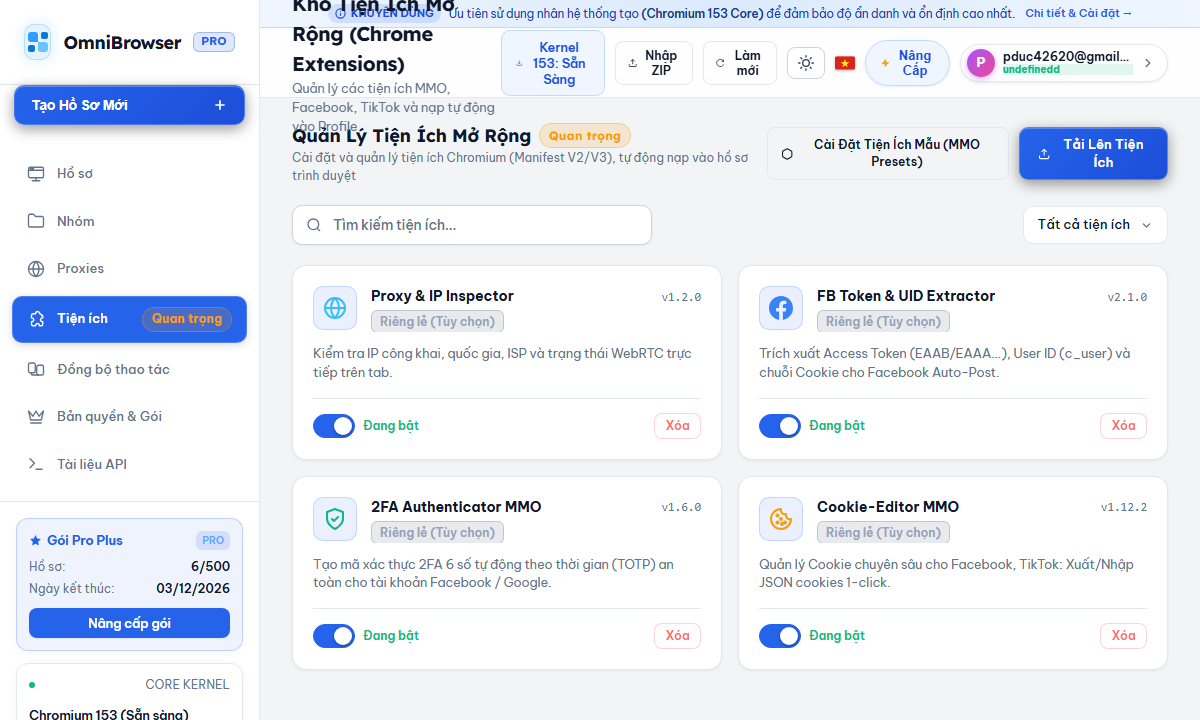
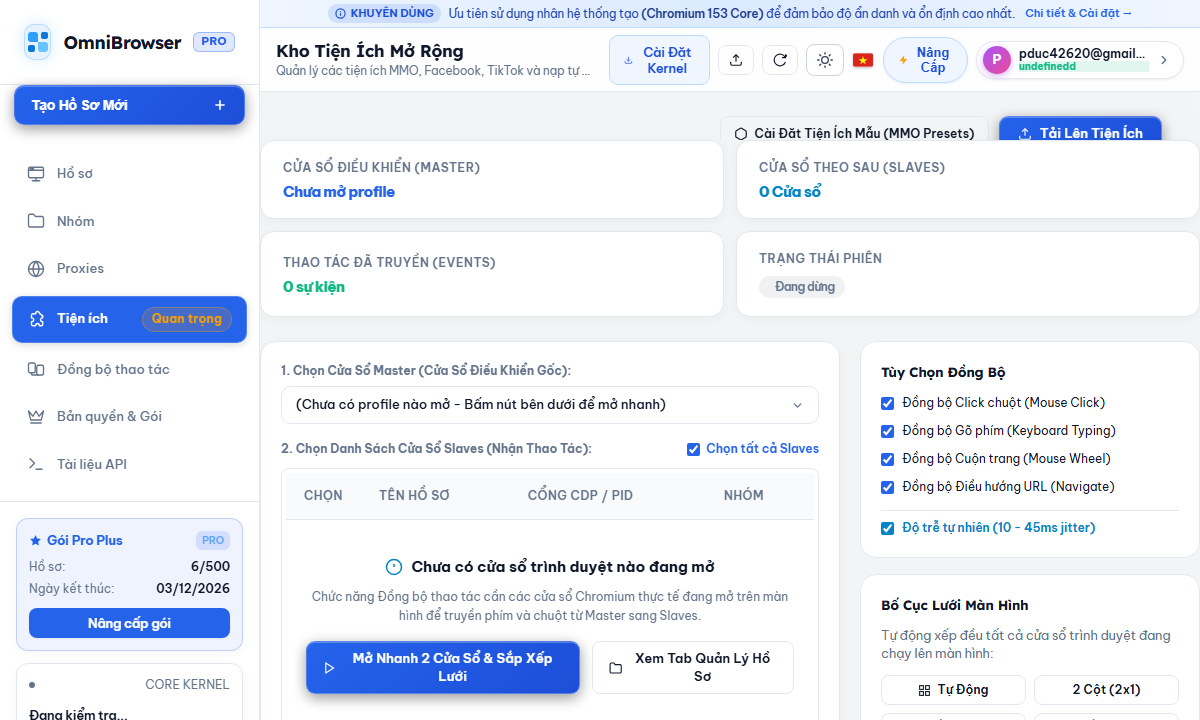
fix(responsive): eliminate duplicate headers and implement comprehensive responsive typography layout

diff --git a/public/index.html b/public/index.html
@@ -1069,15 +1069,7 @@
 
         <!-- View: Extensions Management (PolyLogin Style) -->
         <div id="view-extensions" class="view-section" style="display: none;">
-          <div style="display:flex; justify-content:space-between; align-items:center; margin-bottom: 20px;">
-            <div>
-              <h3 style="font-size: 18px; font-weight: 700; display:flex; align-items:center; gap:8px;">
-                <span>Quản Lý Tiện Ích Mở Rộng</span>
-                <span class="badge-important">Quan trọng</span>
-              </h3>
-              <p style="font-size: 12px; color: var(--text-muted);">Cài đặt và quản lý tiện ích Chromium (Manifest V2/V3), tự động nạp vào hồ sơ trình duyệt</p>
-            </div>
-            <div style="display:flex; gap:10px;">
+          <div style="display:flex; justify-content:flex-end; gap:10px; margin-bottom: 16px; flex-wrap: wrap;">
               <button class="uiv-btn uiv-btn-secondary" id="btn-install-presets" title="Cài đặt nhanh 4 tiện ích MMO: Cookie-Editor, 2FA Authenticator, FB Helper, Proxy Inspector">
                 <svg width="14" height="14" viewBox="0 0 24 24" fill="none" stroke="currentColor" stroke-width="2"><path d="M21 16V8a2 2 0 0 0-1-1.73l-7-4a2 2 0 0 0-2 0l-7 4A2 2 0 0 0 3 8v8a2 2 0 0 0 1 1.73l7 4a2 2 0 0 0 2 0l7-4A2 2 0 0 0 21 16z"/></svg>
                 <span>Cài Đặt Tiện Ích Mẫu (MMO Presets)</span>
@@ -1122,12 +1114,7 @@
 
         <!-- View 5: Multi-Window Synchronizer -->
         <div id="view-sync" class="view-section" style="display: none;">
-          <div style="display:flex; justify-content:space-between; align-items:center; margin-bottom: 20px;">
-            <div>
-              <h2 style="font-size: 18px; font-weight: 700;">Đồng Bộ Thao Tác Chuột & Phím (Action Synchronizer)</h2>
-              <p style="font-size: 12px; color: var(--text-muted);">Điều khiển 1 cửa sổ Master - tự động đồng bộ thời gian thực sang hàng chục cửa sổ Slave qua CDP</p>
-            </div>
-            <div style="display:flex; gap:10px;">
+          <div style="display:flex; justify-content:flex-end; gap:10px; margin-bottom: 20px; flex-wrap: wrap;">
               <button class="uiv-btn uiv-btn-secondary" onclick="quickStartTwoProfiles()" title="Mở nhanh 2 profile, chia đôi màn hình và tự động kích hoạt đồng bộ">
                 <svg width="14" height="14" viewBox="0 0 24 24" fill="none" stroke="currentColor" stroke-width="2"><polygon points="13 2 3 14 12 14 11 22 21 10 12 10 13 2"/></svg>
                 <span>Mở Nhanh 2 Cửa Sổ & Đồng Bộ</span>

diff --git a/public/style.css b/public/style.css
@@ -326,22 +326,35 @@ body::after {
 }
 
 .topbar {
-  height: 70px;
-  padding: 0 32px;
+  min-height: 64px;
+  height: auto;
+  padding: 12px 28px;
   display: flex;
   align-items: center;
   justify-content: space-between;
+  gap: 16px;
   border-bottom: 1px solid var(--border-subtle);
-  background: rgba(8, 13, 25, 0.7);
+  background: var(--bg-card, #ffffff);
   backdrop-filter: blur(12px);
   position: relative !important;
   z-index: 1000 !important;
+  box-sizing: border-box;
 }
 
+.topbar-title {
+  flex: 1 1 auto;
+  min-width: 200px;
+  max-width: calc(100% - 480px);
+}
 .topbar-title h1 {
-  font-size: 20px;
+  font-size: clamp(16px, 1.6vw, 20px);
   font-weight: 700;
-  letter-spacing: -0.4px;
+  letter-spacing: -0.3px;
+  margin: 0;
+  white-space: nowrap;
+  overflow: hidden;
+  text-overflow: ellipsis;
+  line-height: 1.3;
 }
 
 .topbar-title p {
@@ -7919,4 +7932,85 @@ select:focus {
 @keyframes poly-progress-fill {
   0% { width: 0%; }
   100% { width: 100%; }
+}
+
+
+/* ==========================================================================
+   COMPREHENSIVE RESPONSIVE DESIGN & ADAPTIVE LAYOUT
+   ========================================================================== */
+@media (max-width: 1440px) {
+  .topbar {
+    padding: 10px 20px;
+    gap: 12px;
+  }
+  .topbar-actions {
+    gap: 8px;
+  }
+}
+
+@media (max-width: 1240px) {
+  .topbar {
+    padding: 8px 16px;
+  }
+  .topbar-title {
+    max-width: calc(100% - 380px);
+  }
+  .topbar-title h1 {
+    font-size: 17px;
+  }
+  .topbar-title p {
+    font-size: 11.5px;
+    white-space: nowrap;
+    overflow: hidden;
+    text-overflow: ellipsis;
+  }
+  /* Compact icon buttons for secondary topbar items */
+  #btn-import-profile-zip span,
+  #btn-refresh span {
+    display: none;
+  }
+  #btn-import-profile-zip,
+  #btn-refresh {
+    padding: 7px 10px;
+  }
+  .metrics-row {
+    grid-template-columns: repeat(2, 1fr) !important;
+    gap: 12px;
+  }
+}
+
+@media (max-width: 1024px) {
+  .topbar {
+    flex-wrap: wrap;
+    padding: 10px 14px;
+  }
+  .topbar-title {
+    flex: 1 1 100%;
+    max-width: 100%;
+    margin-bottom: 6px;
+  }
+  .topbar-actions {
+    flex: 1 1 100%;
+    justify-content: flex-end;
+  }
+  .sidebar {
+    width: 200px;
+  }
+}
+
+@media (max-width: 768px) {
+  .app-container {
+    flex-direction: column;
+  }
+  .sidebar {
+    width: 100%;
+    height: auto;
+  }
+  .metrics-row {
+    grid-template-columns: 1fr !important;
+  }
+  .data-table-container {
+    overflow-x: auto;
+    -webkit-overflow-scrolling: touch;
+  }
 }

diff --git a/public/app.js b/public/app.js
@@ -4126,7 +4126,7 @@ const views = {
   profiles: { el: document.getElementById('view-profiles'), title: 'Quản lý Hồ sơ Trình duyệt', sub: 'Hệ thống Antidetect & Profile độc lập chuyên sâu với nhân Chromium tùy biến' },
   groups: { el: document.getElementById('view-groups'), title: 'Nhóm Hồ Sơ (Profile Groups)', sub: 'Phân loại hồ sơ theo chiến dịch, dự án và nền tảng MMO' },
   proxies: { el: document.getElementById('view-proxies'), title: 'Danh Sách Proxy & Kiểm Tra IP', sub: 'Quản lý kho proxy tĩnh HTTP/HTTPS/SOCKS5 với kiểm tra Live Ping' },
-  extensions: { el: document.getElementById('view-extensions'), title: 'Kho Tiện Ích Mở Rộng (Chrome Extensions)', sub: 'Quản lý các tiện ích MMO, Facebook, TikTok và nạp tự động vào Profile' },
+  extensions: { el: document.getElementById('view-extensions'), title: 'Kho Tiện Ích Mở Rộng', sub: 'Quản lý các tiện ích MMO, Facebook, TikTok và nạp tự động vào Profile' },
   sync: { el: document.getElementById('view-sync'), title: 'Đồng Bộ Thao Tác Chuột & Phím', sub: 'Truyền tín hiệu bàn phím và chuột thời gian thực từ Master sang Slave qua CDP' },
   license: { el: document.getElementById('view-license'), title: 'Bản Quyền & Nâng Cấp Gói', sub: 'Tích hợp bảo mật bản quyền CGT-License Engine • lic.cgtdev.space' },
   api: { el: document.getElementById('view-api'), title: 'REST API & Automation Protocol', sub: 'Tự động hóa hoàn toàn với Puppeteer, Playwright, Python và MCP' },
